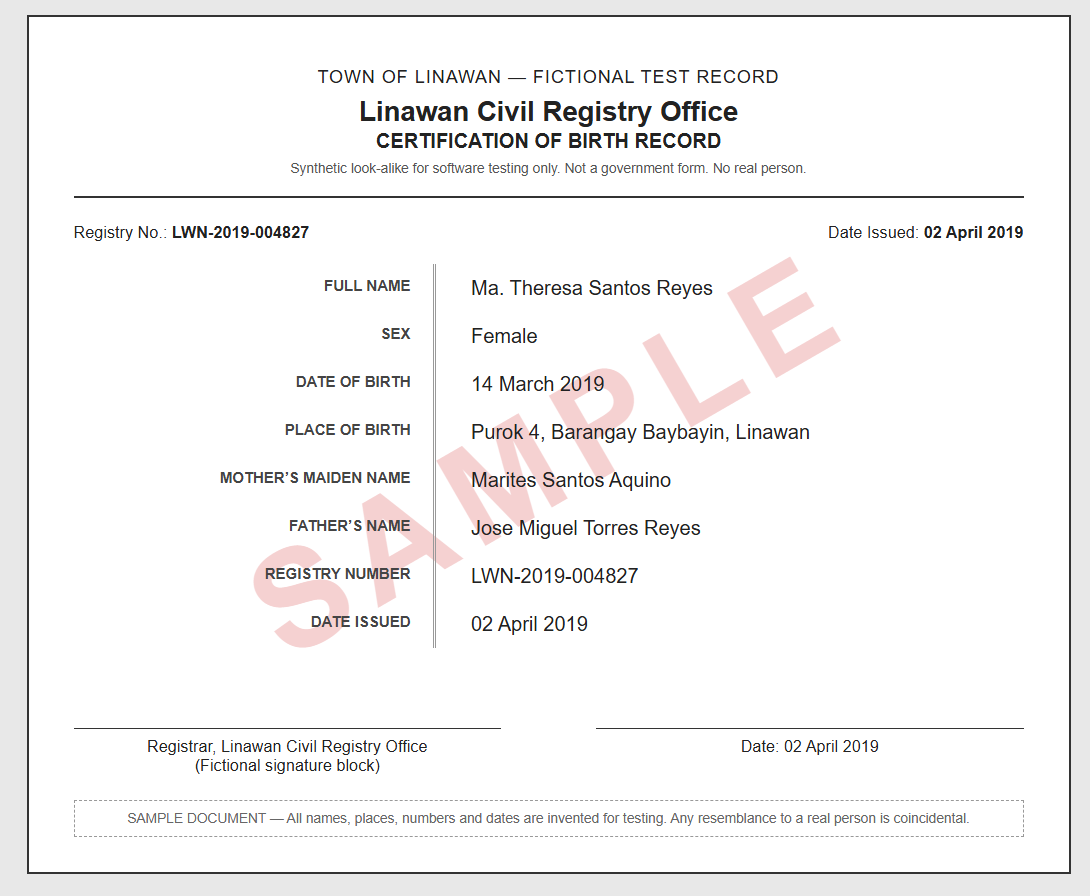
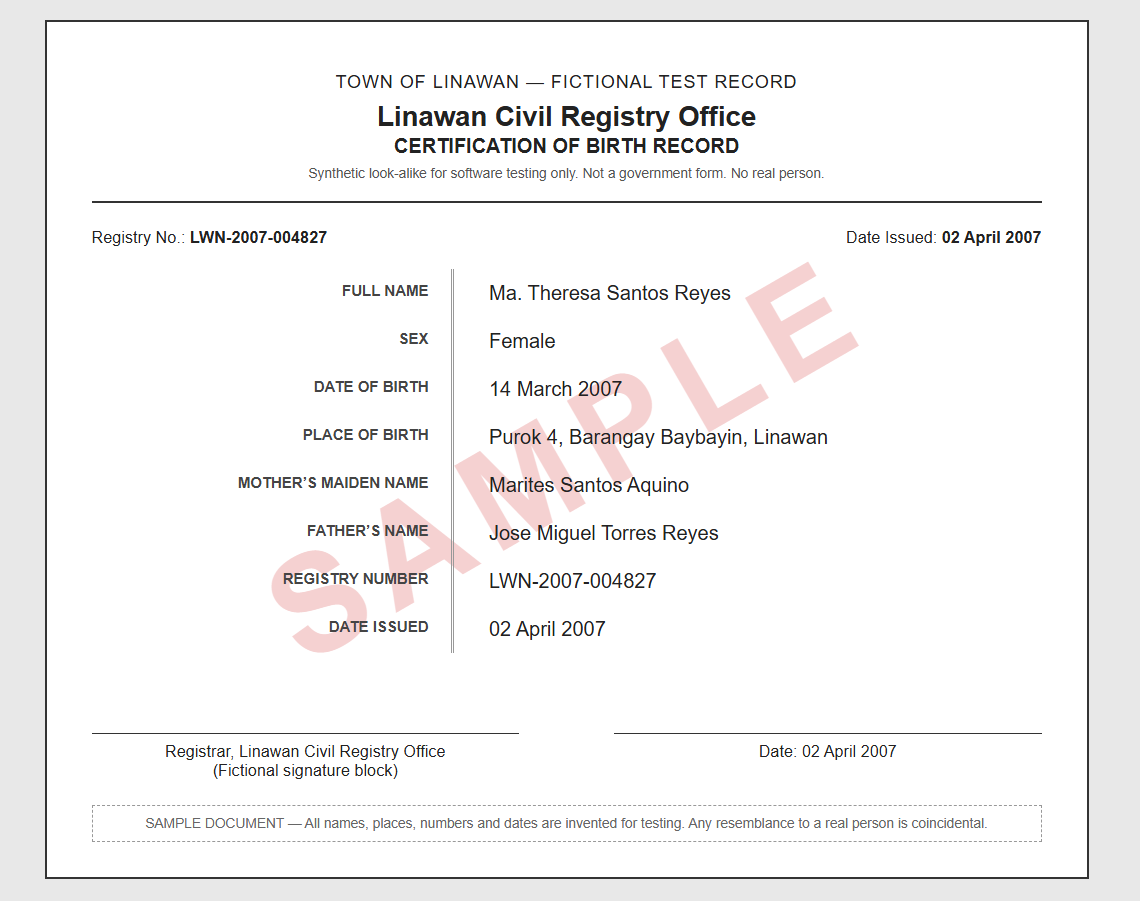
Step 6 tested: normal path ready, requirement stop, mismatch caught; sample other-town ID

diff --git a/samples/templates/valid-id-other-town.html b/samples/templates/valid-id-other-town.html
@@ -1,0 +1,31 @@
+<!DOCTYPE html>
+<html lang="en">
+<head>
+<meta charset="utf-8">
+<meta name="viewport" content="width=device-width, initial-scale=1">
+<title>Sample Voter-Style ID - Linawan (Fictional Test Document)</title>
+</head>
+<body style="margin:0;padding:24px;background:#e8e8e8;font-family:Arial, Helvetica, sans-serif;color:#222222;">
+<div style="position:relative;max-width:760px;margin:0 auto;background:#ffffff;border:2px solid #333333;padding:40px 36px 28px 36px;overflow:hidden;">
+<div style="position:absolute;top:42%;left:-15%;width:130%;text-align:center;transform:rotate(-30deg);font-size:110px;font-weight:bold;letter-spacing:12px;color:rgba(200,0,0,0.18);pointer-events:none;white-space:nowrap;">SAMPLE</div>
+<div style="text-align:center;border-bottom:2px solid #333333;padding-bottom:16px;margin-bottom:20px;position:relative;">
+<div style="font-size:14px;letter-spacing:1px;text-transform:uppercase;">Town of Linawan &mdash; Fictional Test Record</div>
+<div style="font-size:22px;font-weight:bold;margin:6px 0 2px 0;">Linawan Voter Registration Office</div>
+<div style="font-size:12px;color:#555555;">Made-up test office. Not a copy of any real ID design.</div>
+<div style="font-size:16px;font-weight:bold;margin-top:6px;">VALID ID - VOTER-STYLE (SAMPLE)</div>
+<div style="font-size:11px;margin-top:6px;color:#555555;">Synthetic look-alike for software testing only. Not a government form. No real person.</div>
+</div>
+<table style="width:100%;border-collapse:collapse;position:relative;" cellpadding="0" cellspacing="0">
+<tr><td style="width:38%;vertical-align:top;padding:10px 18px 10px 8px;text-align:right;font-size:12px;font-weight:bold;text-transform:uppercase;color:#444444;border-right:3px double #999999;">Full Name</td><td style="width:62%;vertical-align:top;padding:10px 8px 10px 28px;text-align:left;font-size:16px;">Ma. Theresa Santos Reyes</td></tr>
+<tr><td style="vertical-align:top;padding:10px 18px 10px 8px;text-align:right;font-size:12px;font-weight:bold;text-transform:uppercase;color:#444444;border-right:3px double #999999;">Date of Birth</td><td style="vertical-align:top;padding:10px 8px 10px 28px;text-align:left;font-size:16px;">14 March 2007</td></tr>
+<tr><td style="vertical-align:top;padding:10px 18px 10px 8px;text-align:right;font-size:12px;font-weight:bold;text-transform:uppercase;color:#444444;border-right:3px double #999999;">Sex</td><td style="vertical-align:top;padding:10px 8px 10px 28px;text-align:left;font-size:16px;">Female</td></tr>
+<tr><td style="vertical-align:top;padding:10px 18px 10px 8px;text-align:right;font-size:12px;font-weight:bold;text-transform:uppercase;color:#444444;border-right:3px double #999999;">Address Line</td><td style="vertical-align:top;padding:10px 8px 10px 28px;text-align:left;font-size:16px;">123 Purok 4, Barangay Baybayin</td></tr>
+<tr><td style="vertical-align:top;padding:10px 18px 10px 8px;text-align:right;font-size:12px;font-weight:bold;text-transform:uppercase;color:#444444;border-right:3px double #999999;">City / Municipality</td><td style="vertical-align:top;padding:10px 8px 10px 28px;text-align:left;font-size:16px;">Maburol</td></tr>
+<tr><td style="vertical-align:top;padding:10px 18px 10px 8px;text-align:right;font-size:12px;font-weight:bold;text-transform:uppercase;color:#444444;border-right:3px double #999999;">Province</td><td style="vertical-align:top;padding:10px 8px 10px 28px;text-align:left;font-size:16px;">Linawan Province</td></tr>
+<tr><td style="vertical-align:top;padding:10px 18px 10px 8px;text-align:right;font-size:12px;font-weight:bold;text-transform:uppercase;color:#444444;border-right:3px double #999999;">ID Number</td><td style="vertical-align:top;padding:10px 8px 10px 28px;text-align:left;font-size:16px;">LWN-VOT-2025-004827</td></tr>
+<tr><td style="vertical-align:top;padding:10px 18px 10px 8px;text-align:right;font-size:12px;font-weight:bold;text-transform:uppercase;color:#444444;border-right:3px double #999999;">Date Issued</td><td style="vertical-align:top;padding:10px 8px 10px 28px;text-align:left;font-size:16px;">02 April 2025</td></tr>
+</table>
+<div style="margin-top:20px;border:1px dashed #999999;padding:8px 10px;font-size:11px;color:#666666;text-align:center;position:relative;">SAMPLE DOCUMENT &mdash; All names, places, numbers and dates are invented for testing. Any resemblance to a real person is coincidental.</div>
+</div>
+</body>
+</html>

diff --git a/docs/SCHEDULE.md b/docs/SCHEDULE.md
@@ -37,7 +37,7 @@ All times Manila. Submission deadline: **Nov 5, 10:00 AM** (Nov 4, 9 PM ET). Tar
 
 ## Where we are now
 
-**Day 1 (Oct 27, evening), step 6: checks code done locally, live proof next**
+**Day 2 (Oct 28, morning), step 7: reviewer view**
 - [x] Step 5 upload pipeline done (profile, submissions, upload + magic-byte checks + limits, background reading reading to needs_review on its own, owner-only image URL; phone proof passed; dev-only test page 404s in production)
 - [x] $150 Meta credits active; models decided (`muse-spark-1.3` for Suri and Cline)
 - [x] Organizers confirmed: any coding tools are allowed; the submitted repo must be public
@@ -53,8 +53,8 @@ All times Manila. Submission deadline: **Nov 5, 10:00 AM** (Nov 4, 9 PM ET). Tar
 - [x] Step 3 settings + rules done (3 doc types, process file, Zod validation, 7/7 tests pass)
 - [x] Step 4 database, storage, sessions done (9 tables, SELECT-only RLS + grants, private uploads bucket 10 MB, anonymous sign-in; isolation passed locally both directions, live /api/session OK + /api/test-seed 404)
 - [x] Step 5 upload pipeline done (file checks, limits, background reading, statuses); phone proof passed locally
-- [x] Step 6 code done locally (names.js, run-checks + requirement gate, /start /profile /set pages + set API; 24/24 tests green, build passes); pending live proof on phone + laptop
-- [ ] Next: step 6 live proof (non-Linawan ID stopped, mismatched birth date flagged), then step 7 reviewer view
+- [x] Step 6 done (names.js, run-checks + requirement gate, /start /profile /set pages + set API; 24/24 tests green, build passes; done-when passed on localhost in private windows)
+- [ ] Next: step 7 reviewer view (image beside fields, flags, approve / correct / reject with validation, review log)
 - [ ] Check the Billing page usage every night
 
 ## Daily log
@@ -67,3 +67,4 @@ All times Manila. Submission deadline: **Nov 5, 10:00 AM** (Nov 4, 9 PM ET). Tar
 - **Day 1 (Oct 27, Noon):** Step 3 done: 3 doc-type settings + Linawan process file (data only, flat address_city_municipality), Zod validation (validateExtraction returns ok/fields/issues, bad values flagged never fixed), tests 7/7 pass. **Next:** step 4 database/storage/sessions.
 - **Day 1 (Oct 27, Noon part 2):** Step 4 local isolation passed (Brave/Opera/Edge): each browser sees its own row only, cross-read 0 rows both ways, browser INSERT blocked. Fix: auto-expose off left service_role with no table privileges, granted in SQL editor, saved as 0002_grant_service_role.sql. Test helpers (/api/test-seed, /test-isolation) are dev-only (404 in production). Live check passed: /api/session returns {"user_id":null}, POST /api/test-seed returns 404 Not found. Step 4 done. **Next:** step 5 upload pipeline.
 - **Day 1 (Oct 27, evening part 2):** Step 6 code done locally: Filipino name rule (Ma.=Maria, Sto./Sta., Jr./Sr./II/III, dela Cruz variants), run-checks + Linawan requirement gate (unreadable=retake, never fail), /start /profile /set checklist + work log, upload unlock after valid_id passes; 24/24 tests green, build passes. Added cross-refresh so each finished read re-checks the other docs. **Next:** live proof on phone + laptop, then commit + step 7.
+- **Day 2 (Oct 28, morning):** Step 6 done-when passed on localhost in private windows. Test A: valid ID + birth certificate (both SAMPLE, 2007) both 'ready', 8 match / 0 mismatch, 1 older upload ignored. Test B: other-town ID (Maburol) -> 'This program is for Linawan residents.', other slots stay locked. Test C: old 2019 birth certificate -> 'Birth date is different: 2019-03-14 vs 2007-03-14' on both rows. Note for step 7: when the requirement fails, the valid ID row still says 'ready — Looks ready'; reword to something like 'Read OK — address is outside Linawan'. Modal credits ($100) also granted, kept in reserve. **Next:** step 7 reviewer view.
